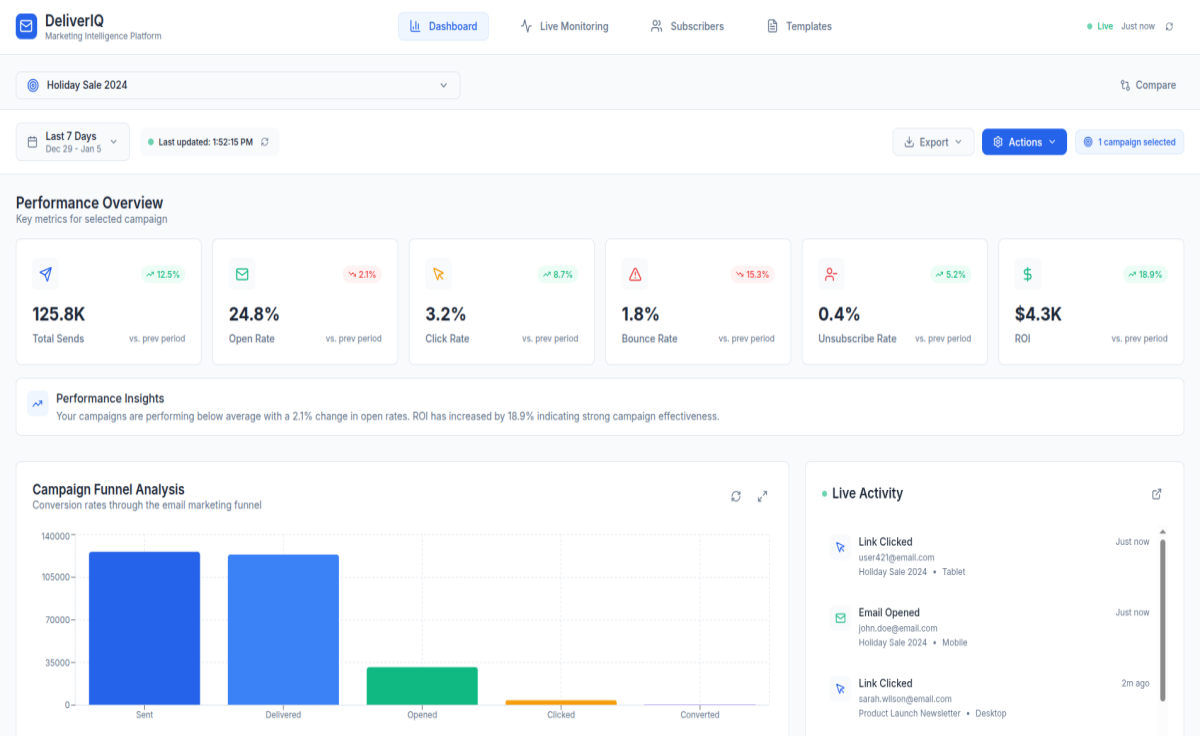
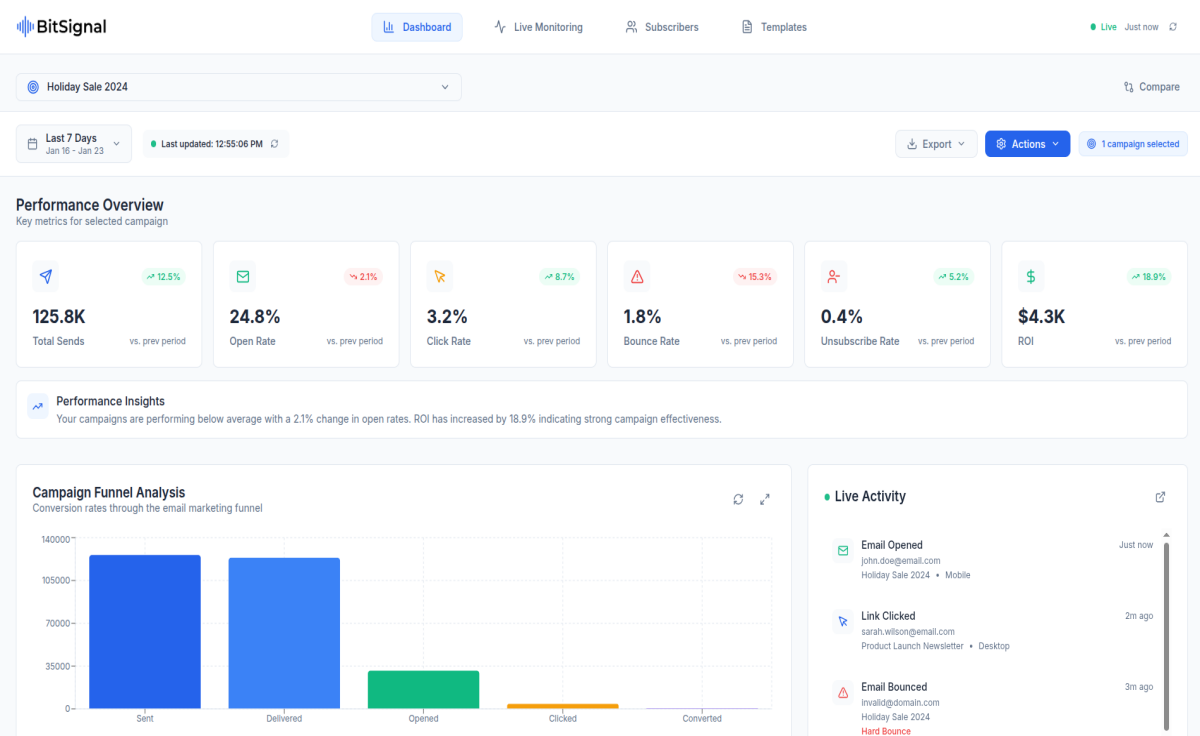
final commit

diff --git a/src/components/Projects.jsx b/src/components/Projects.jsx
@@ -33,10 +33,10 @@ const Projects = () => {
                                         <h5 className='font-normal'>Admin Dashboard</h5>
                                         <img src="images/arrow-right.svg" alt="" width={30} height={30} />
                                     </div>
-                                    <p className="text-gray-500">Client: <span className="text-orange-600">DeliverIQ</span></p>
+                                    <p className="text-gray-500">Client: <span className="text-orange-600">BitSignal</span></p>
                                 </div>
                             </Link>
-                            <Link to={"https://binaro-1163z0qn3-myself-srinath-gopals-projects.vercel.app/"} className="flex flex-col gap-3 xl:gap-6 cursor-pointer">
+                            <Link to={"https://binaro.vercel.app/"} className="flex flex-col gap-3 xl:gap-6 cursor-pointer">
                                 <div>
                                     <img src="images/proj-3.png" alt="" className="rounded-lg w-full h-full object-cover" />
                                 </div>

diff --git a/index.html b/index.html
@@ -2,7 +2,7 @@
 <html lang="en">
   <head>
     <meta charset="UTF-8" />
-    <link rel="icon" type="image/svg+xml" href="/vite.svg" />
+    <link rel="icon" type="image/png" href="/images/favicon.png" />
     <meta name="viewport" content="width=device-width, initial-scale=1.0" />
     <title>Srinath - Portfolio</title>
   </head>
